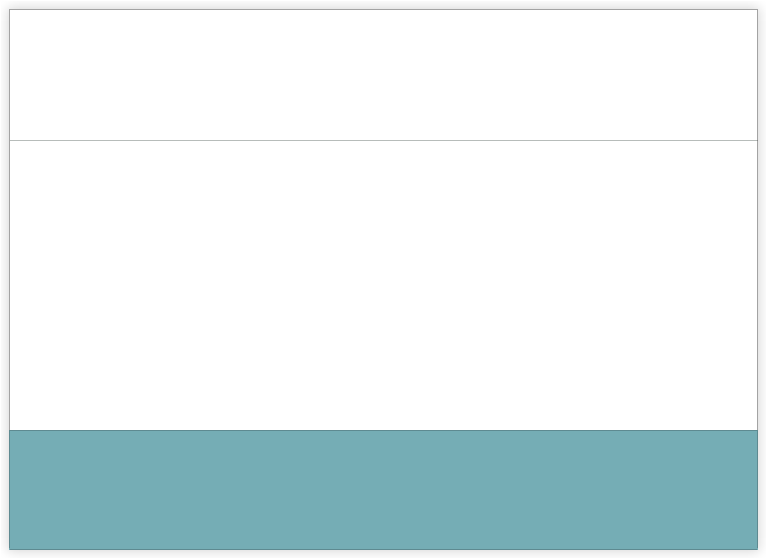
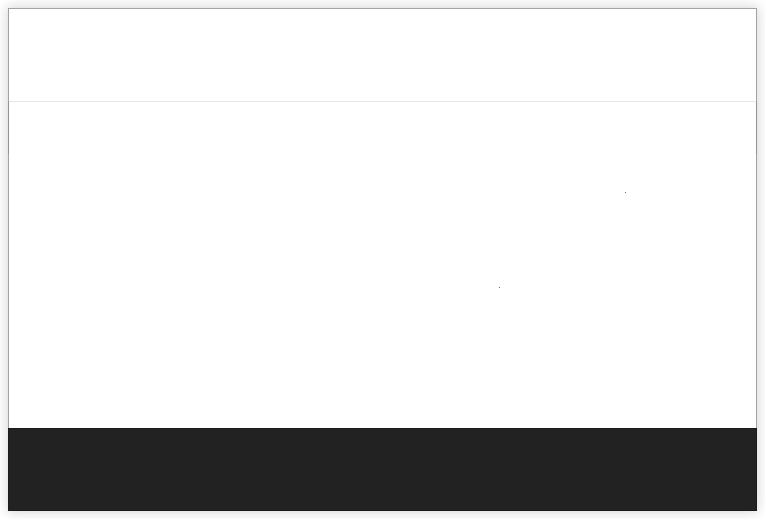
Adds new infowindow sprite

diff --git a/app/assets/stylesheets/application.css.scss b/app/assets/stylesheets/application.css.scss
@@ -537,10 +537,10 @@ article.contact {
 
 #subscribe {
 
-  $height: 559px;
-  $width: 767px;
+  $subscribe_height: 519px;
+  $subscribe_width: 765px;
 
-  @include absolute-center($width, $height);
+  @include absolute-center($subscribe_width, $subscribe_height);
   position:fixed;
 
   display:none;
@@ -551,7 +551,7 @@ article.contact {
   &.show { display: block; }
 
   .header, .footer {
-    @include absolute-left-center($width);
+    @include absolute-left-center($subscribe_width);
   }
 
   .header .inner { padding: 40px 45px; }
@@ -596,6 +596,7 @@ article.contact {
         font-size: 35px;
         @extend .serif;
         color: #666666;
+        text-align: center;
       }
 
       p {
@@ -610,10 +611,10 @@ article.contact {
 
   .map {
     position: absolute;
-    top: 141px;
+    top: 101px;
     height:291px;
-    width: 747px;
-    left: 10px;
+    width: $subscribe_width - 18;
+    left: 8px;
 
     .error_box {
       position:absolute;
@@ -643,22 +644,21 @@ article.contact {
 
 
     #subscribe_map {
-      height:291px;
-      width: 747px;
+      width: 100%;
+      height:327px;
     }
 
   }
 
   .footer {
-    bottom: 10px;
-    height: 120px;
+    bottom: 30px;
+    height: 85px;
+
     .inner {
-      border-top: 1px solid #5E8A91;
-      height: 118px;
-      width: 749px;
+      height: 80px;
+      width: $subscribe_width;
       margin-left: 9px;
       margin-top: 3px;
-      background: #222222;
     }
 
     .error_input_label {

diff --git a/app/assets/javascripts/gfw_lib.js b/app/assets/javascripts/gfw_lib.js
@@ -236,16 +236,16 @@ GFW.modules.app = function(gfw) {
           this.specialLayer.setOpacity(1);
         } else {
 
-        this.specialLayer = new google.maps.ImageMapType({
-          getTileUrl: function(tile, zoom) {
-            return "http://184.73.201.235/blue/" + zoom + "/" + tile.x + "/" + tile.y;
-          },
-          tileSize: new google.maps.Size(256, 256),
-          opacity:0.60,
-          isPng: true
-        });
+          this.specialLayer = new google.maps.ImageMapType({
+            getTileUrl: function(tile, zoom) {
+              return "http://184.73.201.235/blue/" + zoom + "/" + tile.x + "/" + tile.y;
+            },
+            tileSize: new google.maps.Size(256, 256),
+            opacity:0.60,
+            isPng: true
+          });
 
-        map.overlayMapTypes.setAt("0", this.specialLayer);
+          map.overlayMapTypes.setAt("0", this.specialLayer);
         }
 
     },

diff --git a/app/mailers/notifications.rb b/app/mailers/notifications.rb
@@ -9,9 +9,9 @@ class Notifications < ActionMailer::Base
   def new_story(story)
     @story = story
 
-    #mail to: "dcano@vizzuality.com"
+    mail to: "dcano@vizzuality.com"
     #mail to: "ferdev@vizzuality.com"
-    mail to: "javierarce@gmail.com"
+    #mail to: "javierarce@gmail.com"
   end
 
 end
